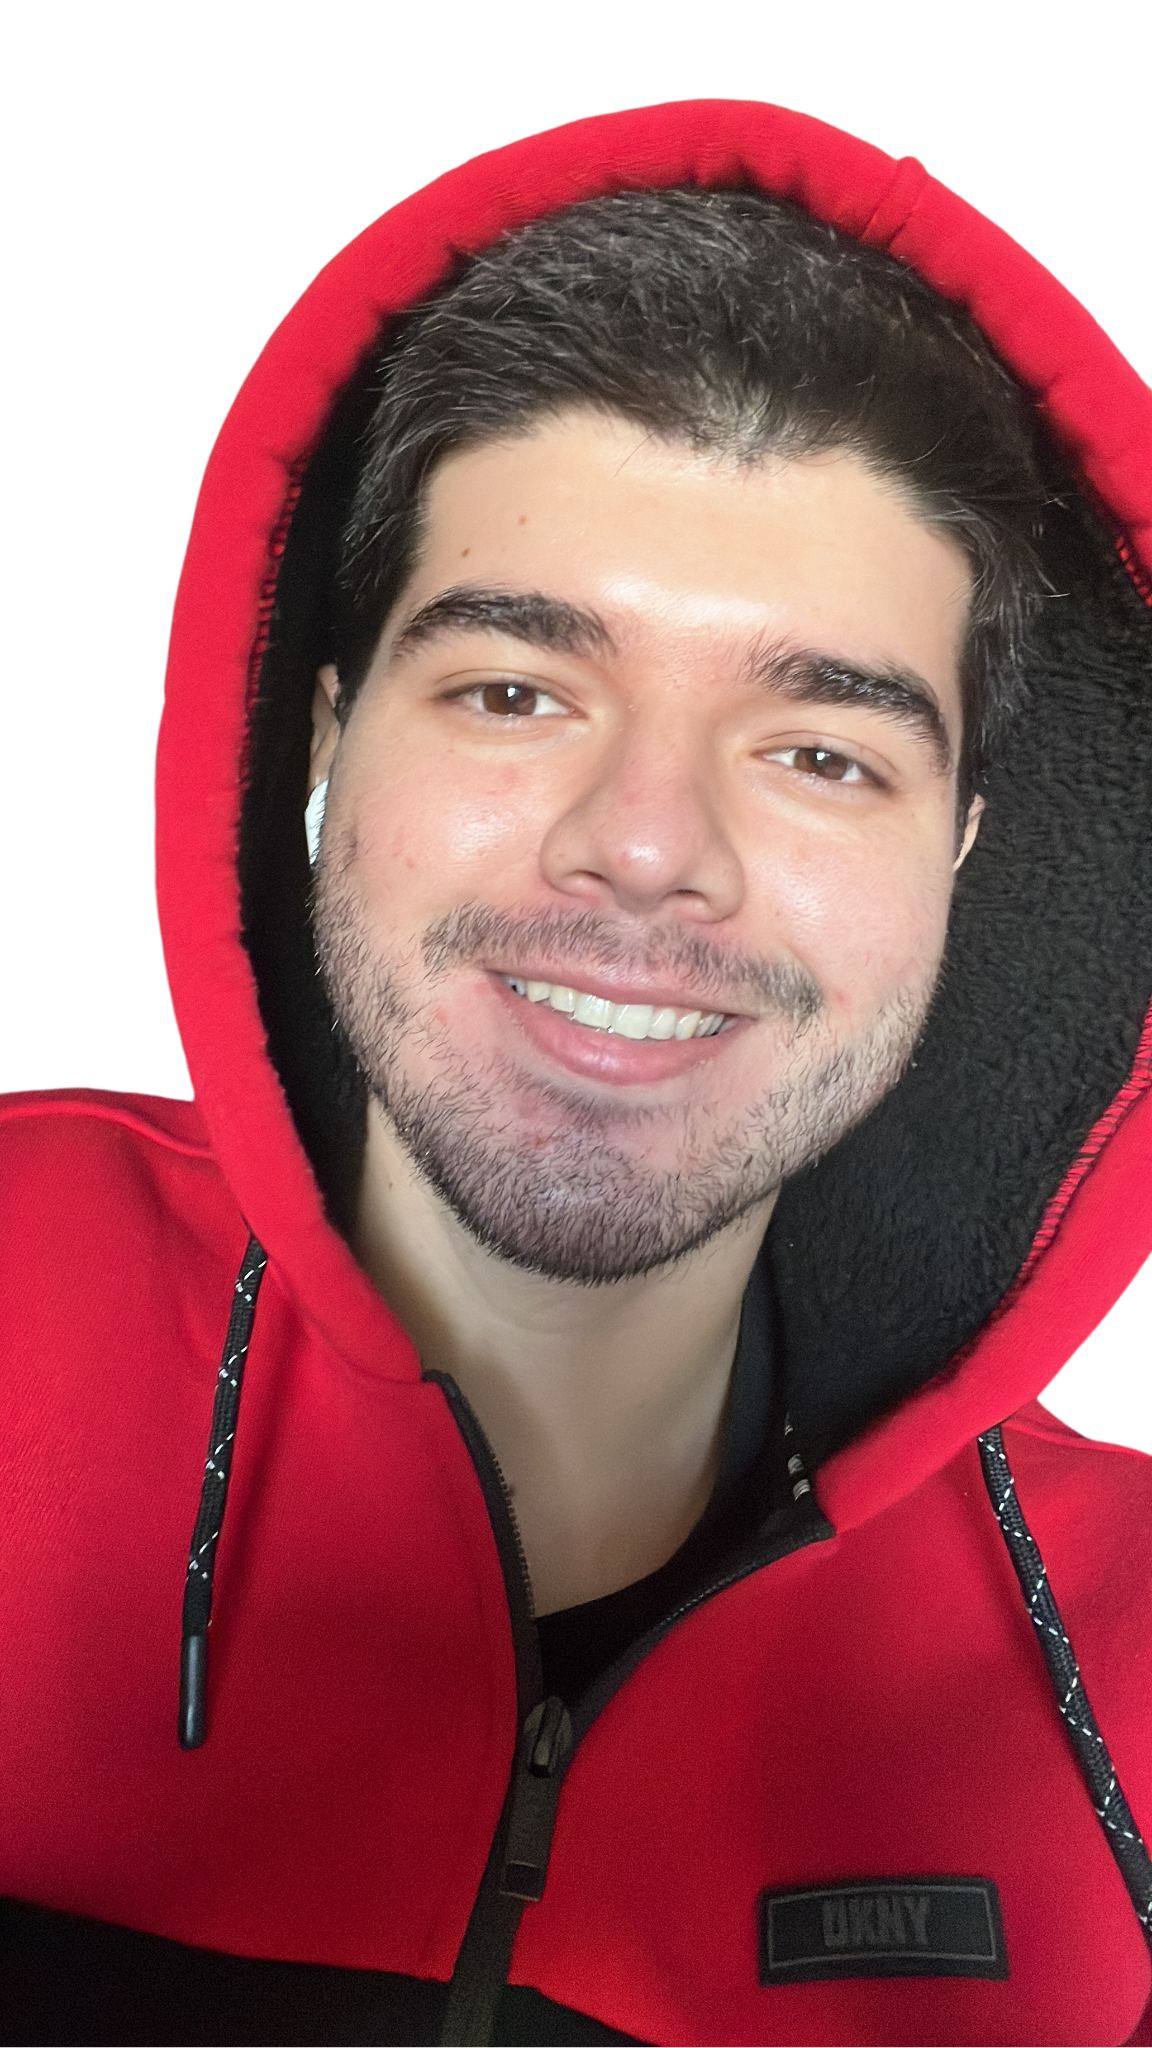
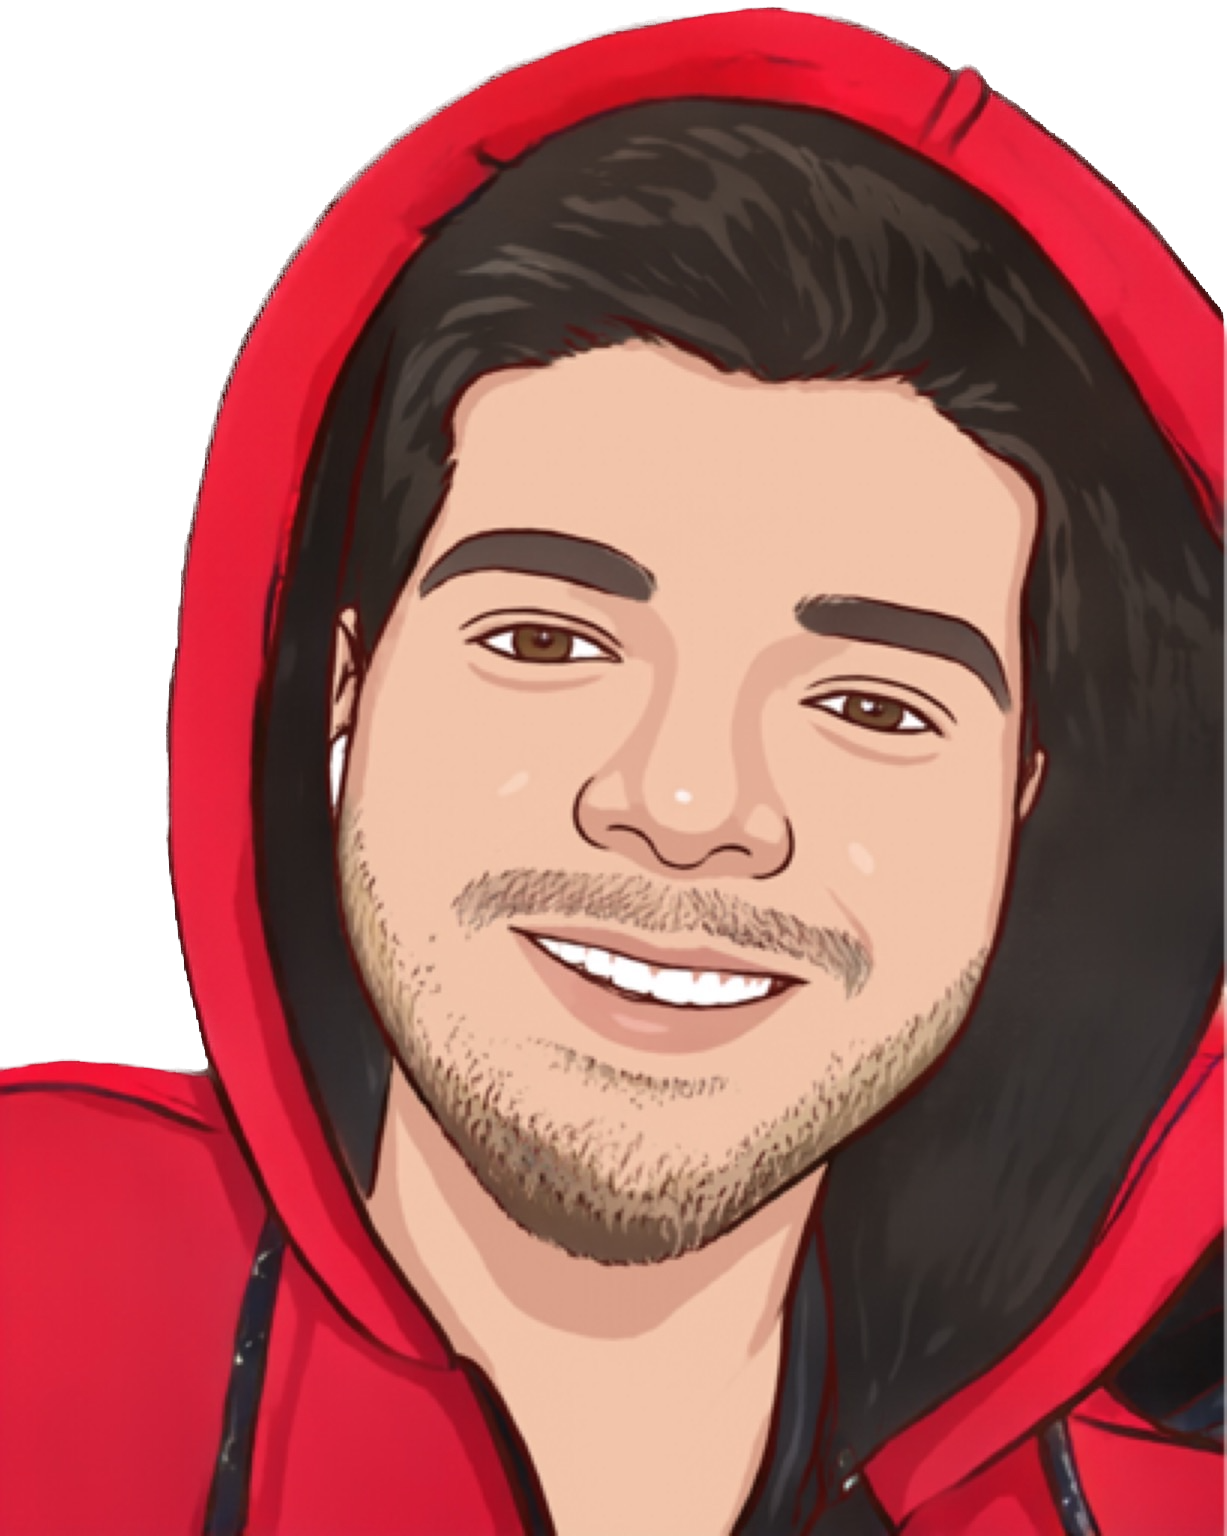
Newnews and communicate projects added changed the protrait img

diff --git a/src/content/work/newnews.md b/src/content/work/newnews.md
@@ -1,0 +1,16 @@
+---
+title: Newnews
+publishDate: 2023-03-01 00:00:00
+img: /assets/newnews-project.png
+img_alt: Landing page of the newnews app
+description: |
+  News app
+tags:
+  - React Native  
+---
+
+Newnews is a minimalist mobile news application inspired by the popular website Hacker News. With a sleek and intuitive interface, this app delivers the latest news and insights in a simple and easy-to-read format.
+
+Featuring a black-and-white color scheme and minimal graphics, Newnews focuses on the content, making it easier for users to stay informed without being overwhelmed. Users can customize their news feed by selecting their preferred categories, and even save articles for later reading.
+
+This app is built using React Native and is compatible with both iOS and Android devices. It uses an API to fetch the latest news stories and data from top sources around the world.

diff --git a/src/content/work/communicate.md b/src/content/work/communicate.md
@@ -1,0 +1,15 @@
+---
+title: Communicate
+publishDate: 2023-03-01 00:00:00
+img: /assets/communicate-project.png
+img_alt: Landing page of the communicate app
+description: |
+  Communicate is a social media application built with the T3 Stack
+tags:
+  - Tailwind CSS
+  - Nextjs
+  - Prisma
+  - TRPC
+---
+
+Communicate is a social media application built with the T3 Stack.
